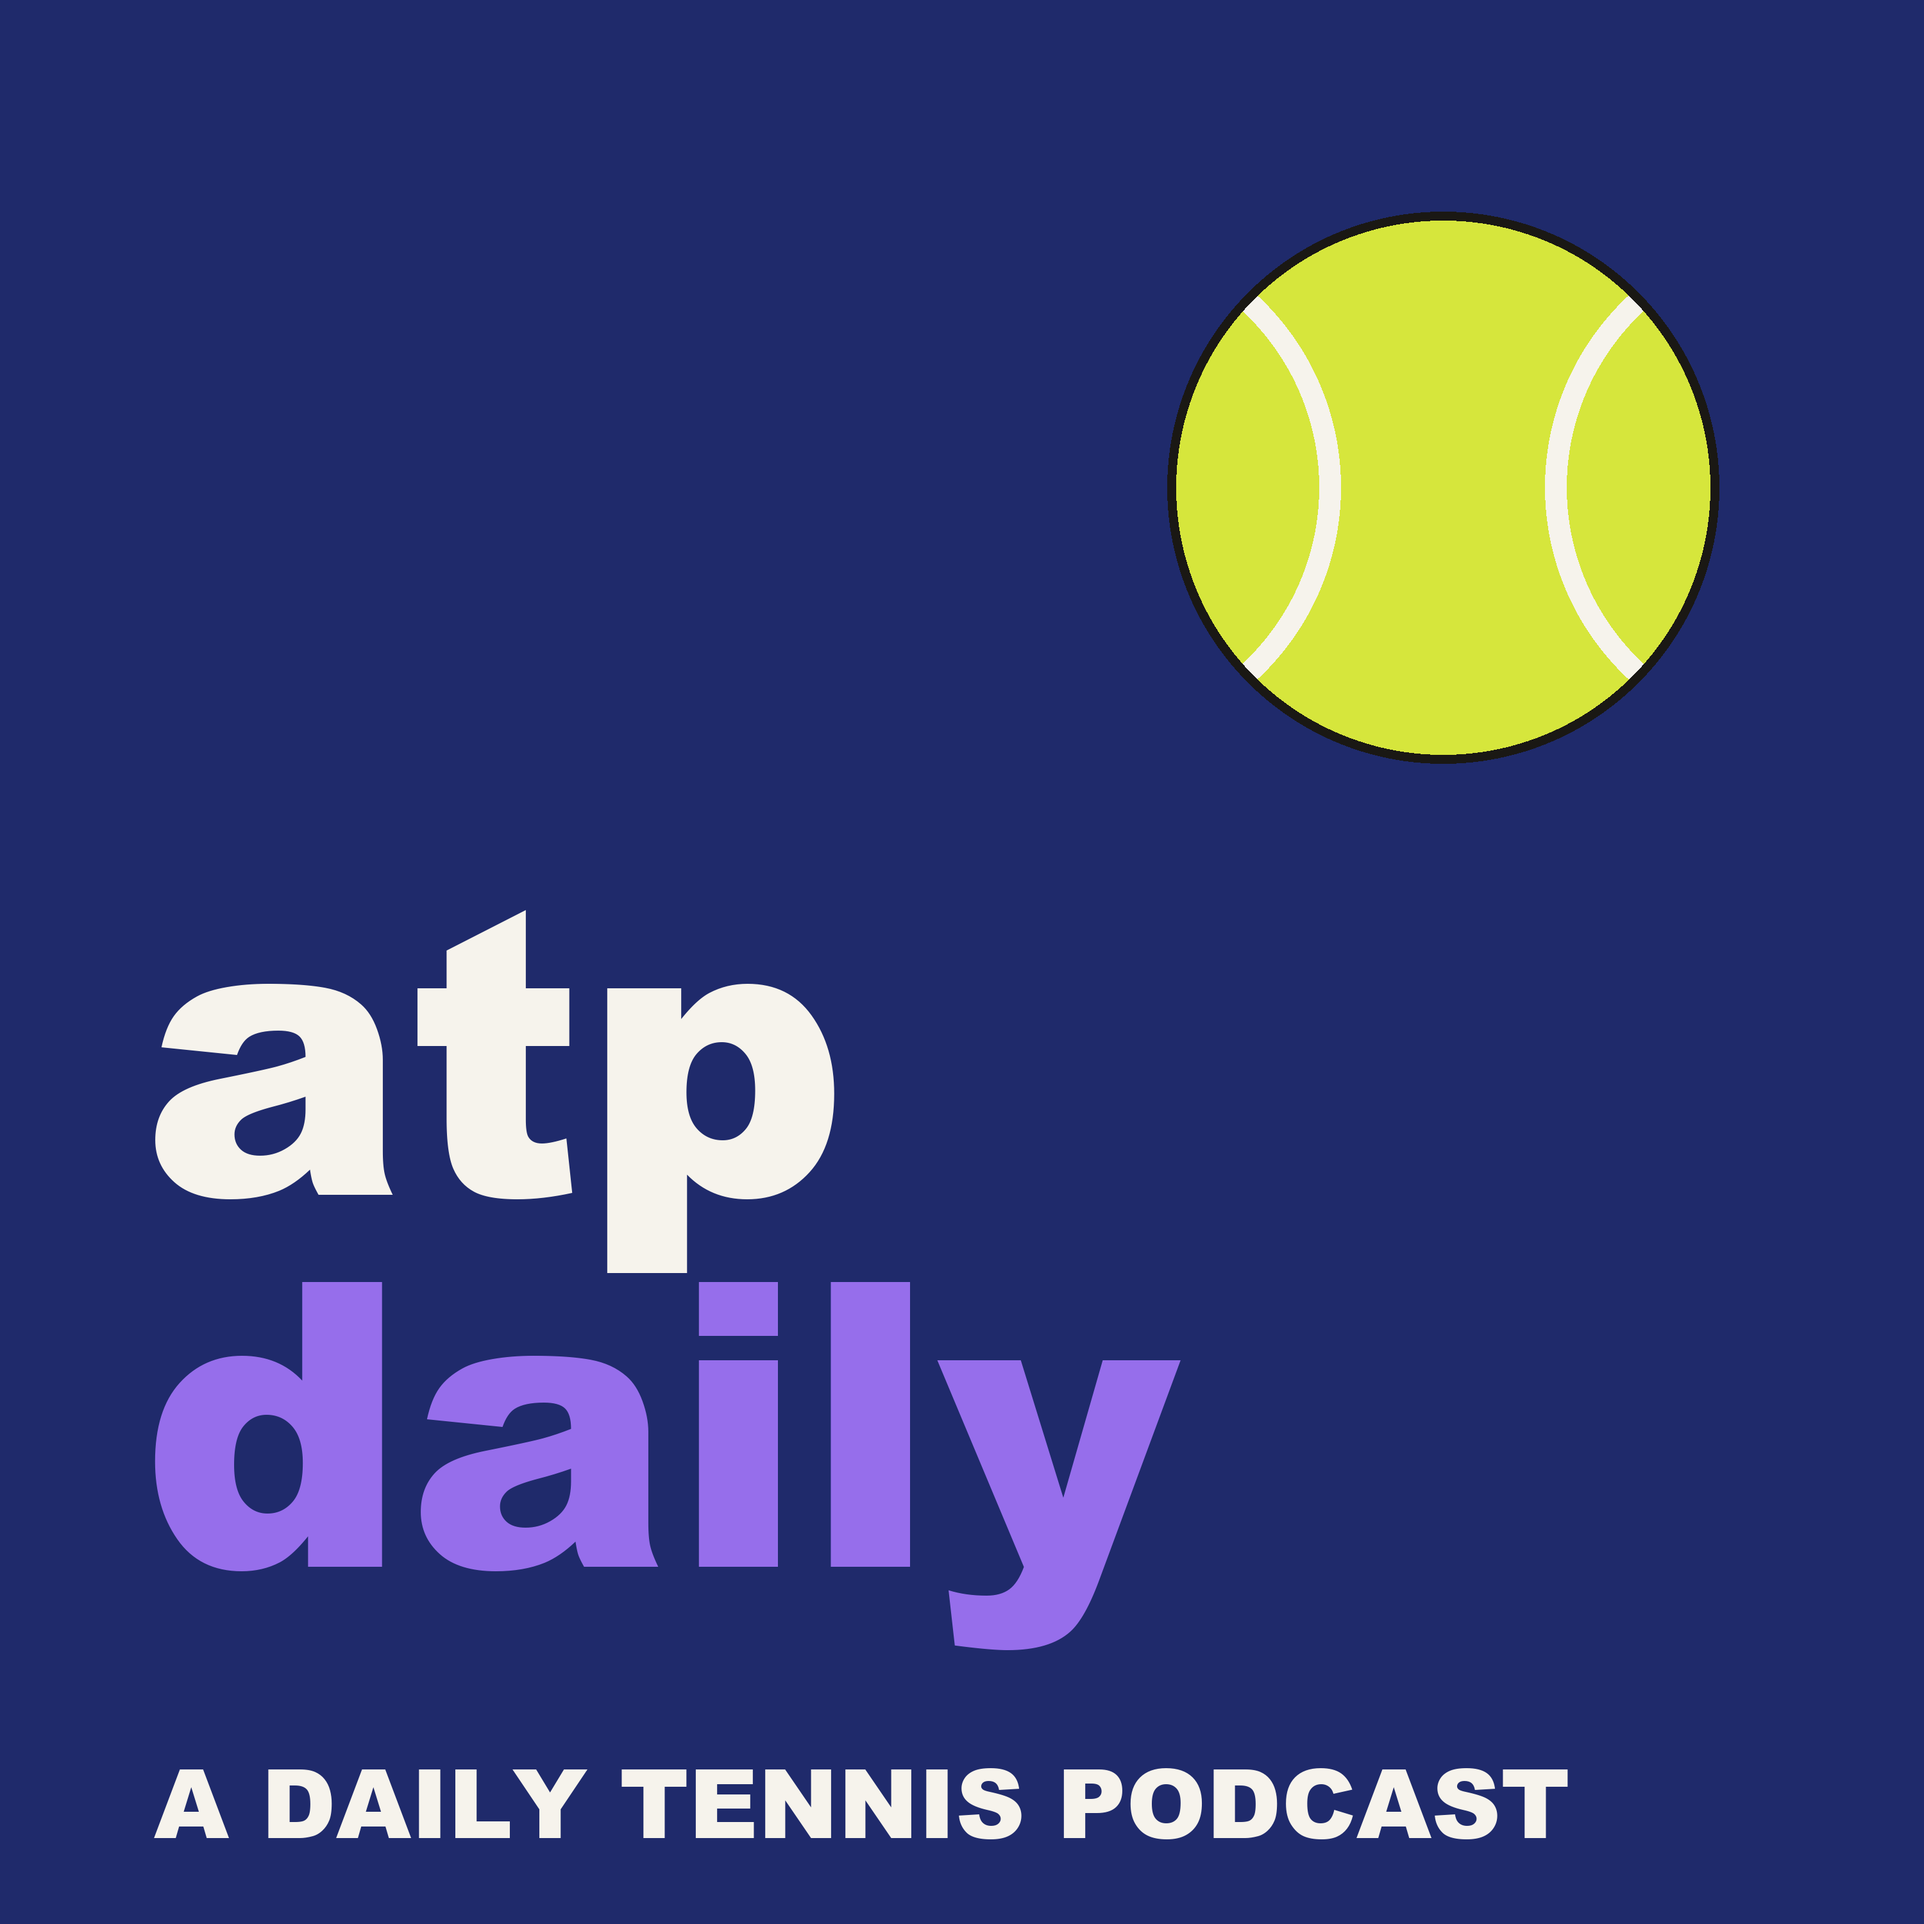
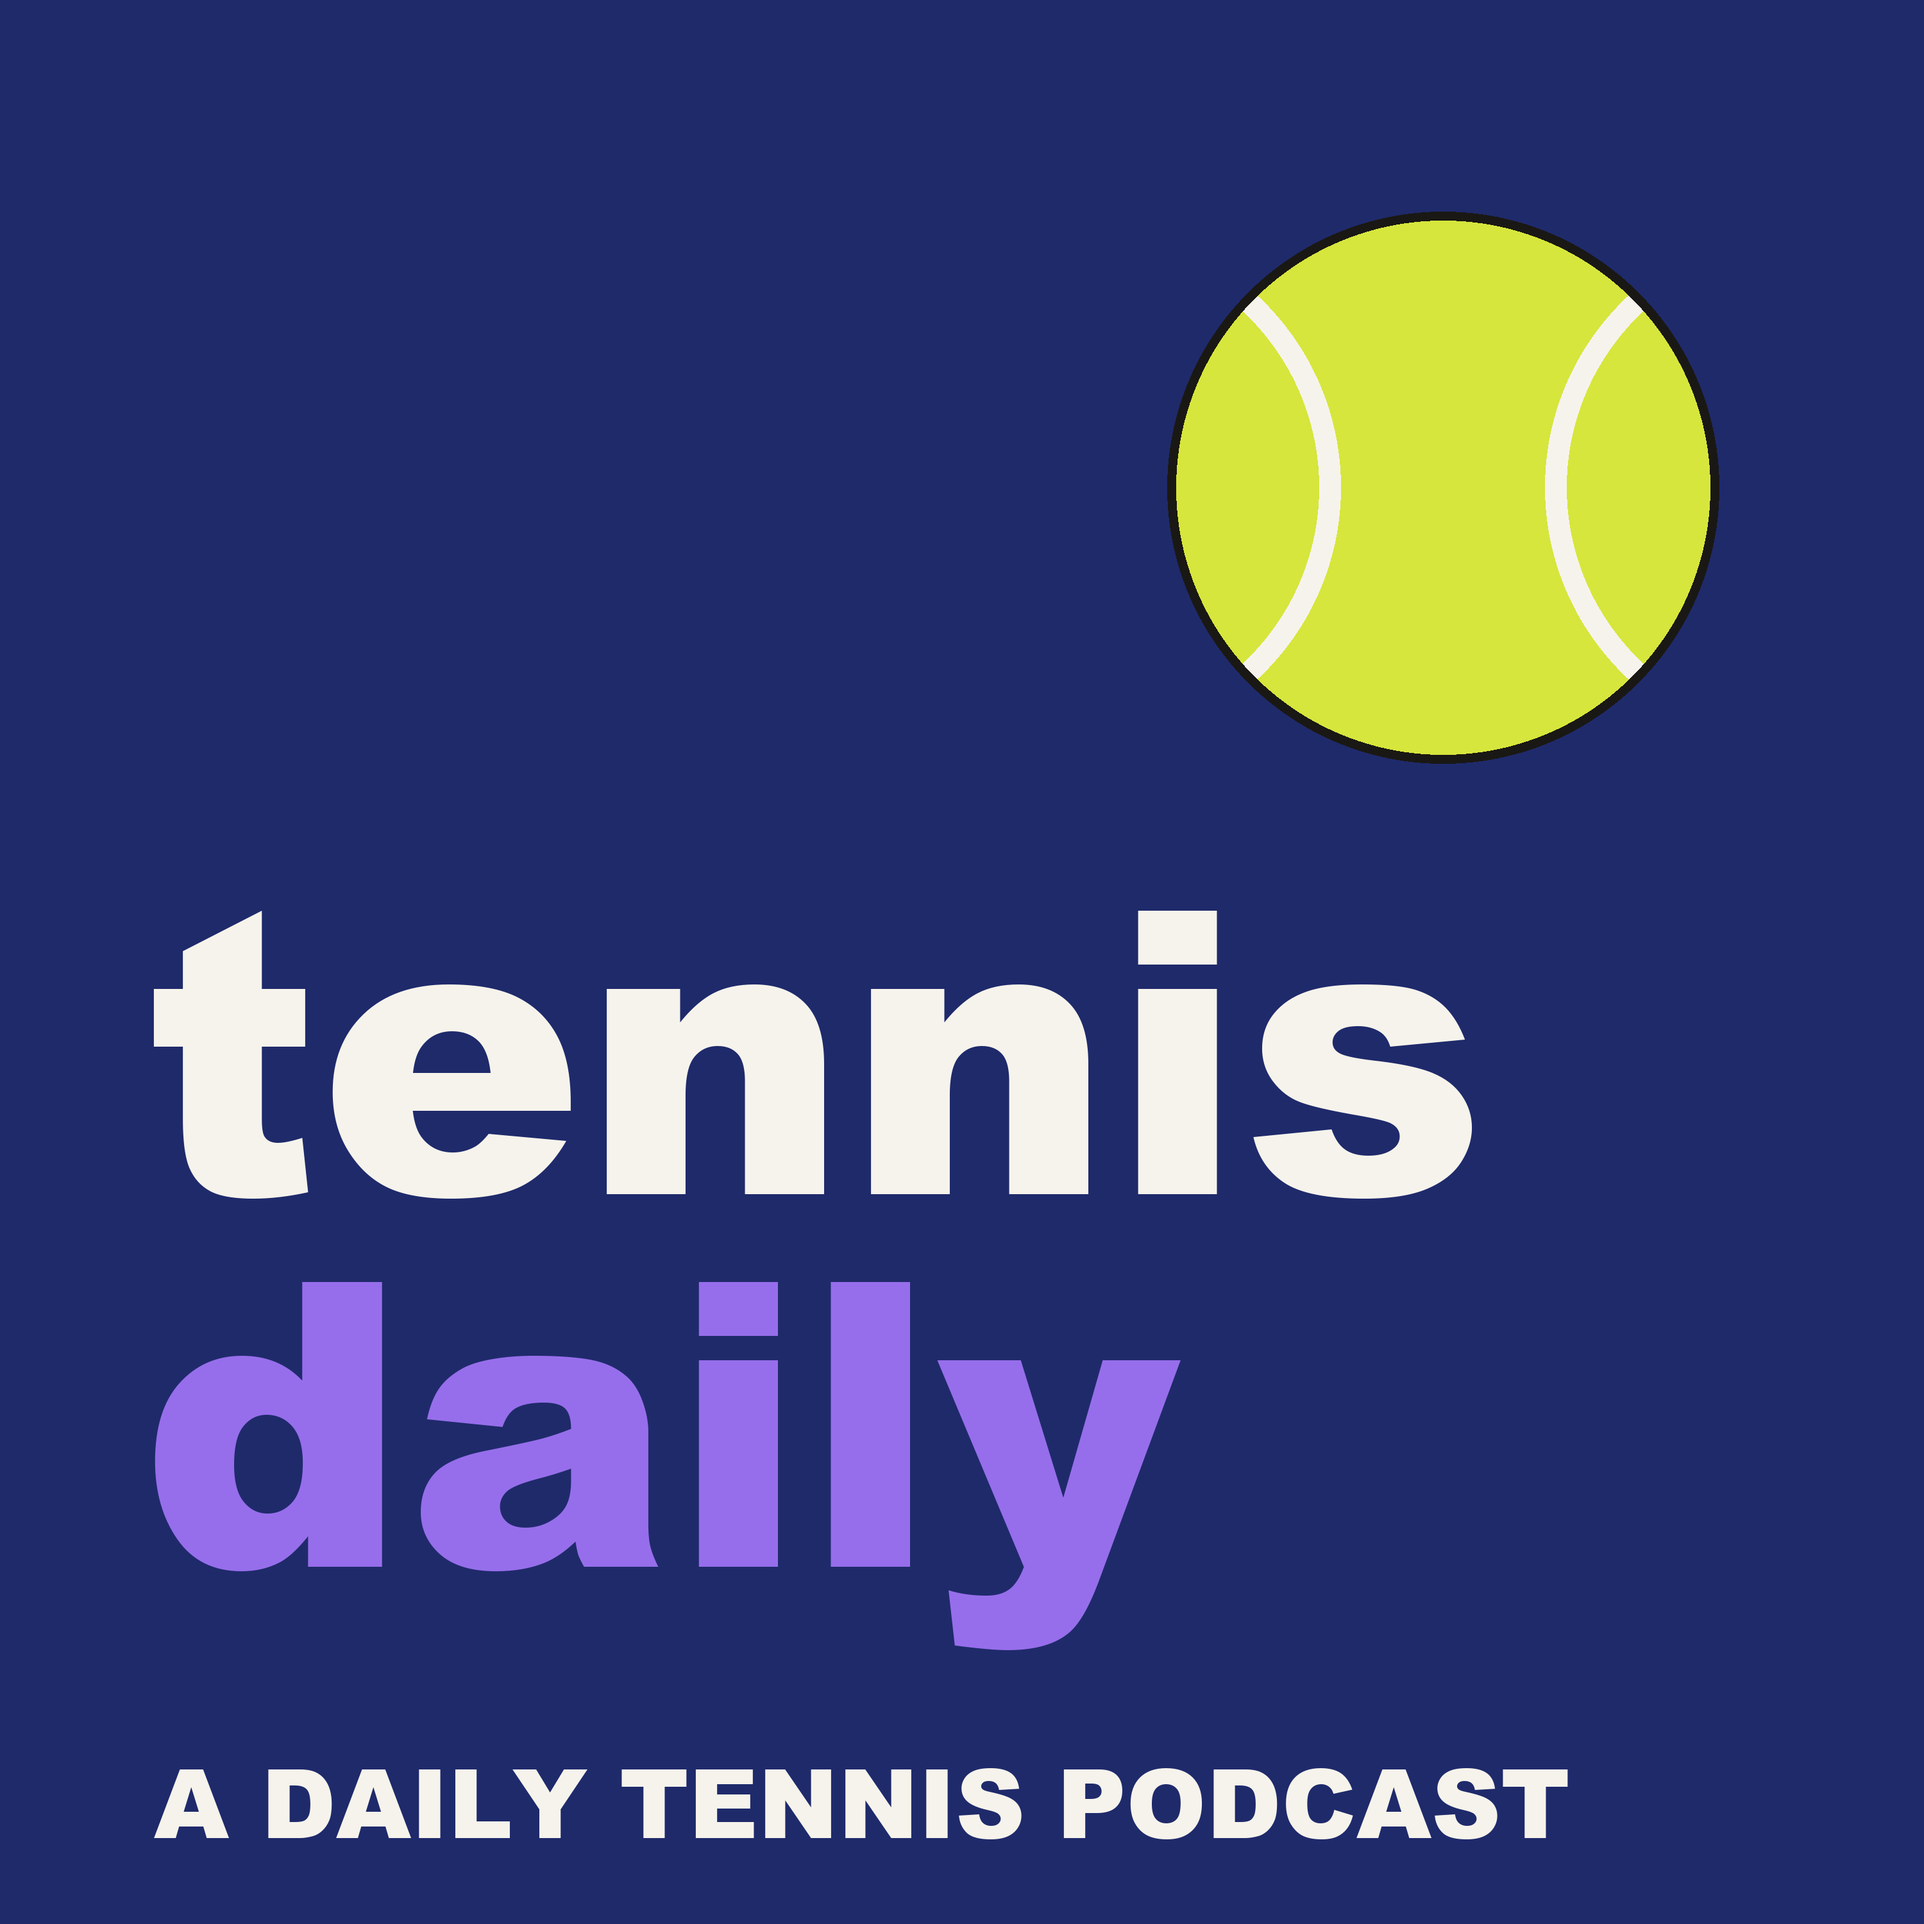
Rename the show from ATP Daily to Tennis Daily
Change the name everywhere listeners see it: site titles, wordmarks,
footer, RSS feed title and author, the podcast cover and the pipeline
prompts. The hero wordmark is longer now, so its font size goes down
and scales with the viewport on tablet and mobile.

RSS GUIDs and localStorage keys keep the atp-daily prefix, so podcast
apps don't re-download every episode and returning listeners keep
their ID.

Changed region(s): [[0.31, 0.465, 0.775, 0.682], [0.062, 0.465, 0.31, 0.62]]

diff --git a/pages/index.tsx b/pages/index.tsx
@@ -126,7 +126,7 @@ export default function Home({ episodes, initialDate, origin }: HomeProps) {
     heroRef.current?.scrollIntoView({ behavior: "smooth", block: "start" });
   }
 
-  const shareTitle = current && !isLatest ? `${current.title} · ATP Daily` : "ATP Daily";
+  const shareTitle = current && !isLatest ? `${current.title} · Tennis Daily` : "Tennis Daily";
   const shareDescription = current?.headline ?? "A daily ATP tennis podcast";
 
   return (
@@ -136,7 +136,7 @@ export default function Home({ episodes, initialDate, origin }: HomeProps) {
         <meta name="description" content={shareDescription} />
         <meta name="viewport" content="width=device-width, initial-scale=1" />
         <link rel="icon" href="/favicon.ico" />
-        <link rel="alternate" type="application/rss+xml" title="ATP Daily" href="/feed.xml" />
+        <link rel="alternate" type="application/rss+xml" title="Tennis Daily" href="/feed.xml" />
         {/* Aperçu des liens partagés (X/Twitter, iMessage, Slack…) */}
         <meta property="og:type" content="website" />
         <meta property="og:title" content={shareTitle} />
@@ -156,13 +156,13 @@ export default function Home({ episodes, initialDate, origin }: HomeProps) {
               <path d="M2.5 9 Q12 14 21.5 9" />
               <path d="M2.5 15 Q12 10 21.5 15" />
             </svg>
-            atp:daily
+            tennis:daily
           </span>
         </nav>
 
         {/* ── Hero — épisode en cours ── */}
         <section className={styles.hero} ref={heroRef}>
-          <div className={styles.heroWordmark} aria-hidden="true">atp:daily</div>
+          <div className={styles.heroWordmark} aria-hidden="true">tennis:daily</div>
           <div className={styles.heroCard}>
             <div className={styles.heroTop}>
               <span className={`${styles.chip} ${isLatest ? styles.chipAccent : ""}`}>
@@ -244,7 +244,7 @@ export default function Home({ episodes, initialDate, origin }: HomeProps) {
 
         {/* ── Footer ── */}
         <div className={styles.foot}>
-          <span>ATP DAILY · a daily tennis podcast</span>
+          <span>TENNIS DAILY · a daily tennis podcast</span>
           <a href="/feed.xml" className={styles.footLink}>RSS feed</a>
         </div>
 
@@ -253,7 +253,7 @@ export default function Home({ episodes, initialDate, origin }: HomeProps) {
       {/* Mini-player fixe — apparaît quand le hero sort du viewport */}
       <MiniPlayer
         visible={!heroVisible && !!current?.audio_url}
-        title={current?.title ?? "ATP Daily"}
+        title={current?.title ?? "Tennis Daily"}
         playing={playerState.playing}
         currentTime={playerState.currentTime}
         duration={playerState.duration}

diff --git a/pages/matches/[id].tsx b/pages/matches/[id].tsx
@@ -55,7 +55,7 @@ export default function MatchDetail({ match, initialRecap }: Props) {
     <>
       <Head>
         <title>
-          {match.winner.name} vs {match.loser.name} — ATP Daily
+          {match.winner.name} vs {match.loser.name} — Tennis Daily
         </title>
         <meta name="viewport" content="width=device-width, initial-scale=1" />
       </Head>
@@ -70,7 +70,7 @@ export default function MatchDetail({ match, initialRecap }: Props) {
               <path d="M2.5 9 Q12 14 21.5 9" />
               <path d="M2.5 15 Q12 10 21.5 15" />
             </svg>
-            atp:daily
+            tennis:daily
           </Link>
           <Link href="/" className={styles.backBtn}>← Back to today</Link>
         </nav>

diff --git a/styles/Home.module.css b/styles/Home.module.css
@@ -42,7 +42,7 @@
 .heroWordmark {
   font-family: 'Archivo', sans-serif;
   font-weight: 900;
-  font-size: 180px;
+  font-size: 150px;
   line-height: 0.85;
   letter-spacing: -0.045em;
   color: var(--accent);
@@ -275,7 +275,7 @@
     padding: 20px 24px 56px;
   }
   .heroWordmark {
-    font-size: 130px;
+    font-size: 14vw;
     top: 30px;
   }
   .heroCard {
@@ -298,7 +298,7 @@
     padding: 30px 0 18px;
   }
   .heroWordmark {
-    font-size: 84px;
+    font-size: 14vw;
     top: 34px;
     letter-spacing: -0.04em;
   }

diff --git a/pages/feed.xml.tsx b/pages/feed.xml.tsx
@@ -4,7 +4,7 @@ import { siteOrigin, episodeLink, trackedAudioUrl } from "@/lib/site";
 // Flux RSS podcast (Apple Podcasts, Spotify, Pocket Casts, Overcast…)
 // Spécification suivie : https://podcasters.apple.com/support/823-podcast-requirements
 
-const SHOW_TITLE = "ATP Daily";
+const SHOW_TITLE = "Tennis Daily";
 const SHOW_DESCRIPTION =
   "A short daily conversation about the ATP tour: yesterday's results, the " +
   "storylines behind them, and how the players played it. Written and voiced " +

diff --git a/components/MiniPlayer.tsx b/components/MiniPlayer.tsx
@@ -58,7 +58,7 @@ export default function MiniPlayer({
 
       <div className={styles.miniBody}>
         {/* Vignette de l'épisode */}
-        <div className={styles.miniThumb} aria-hidden="true">atp</div>
+        <div className={styles.miniThumb} aria-hidden="true">tennis</div>
 
         {/* Titre et temps */}
         <div className={styles.miniInfo}>

diff --git a/pipeline/atp_pipeline/prompts/research.md b/pipeline/atp_pipeline/prompts/research.md
@@ -1,4 +1,4 @@
-You are the research desk for ATP Daily, a short daily podcast in which two hosts recap yesterday's men's professional tennis. Your work feeds an editor who picks the episode's 2–4 storylines, and writers who may only state facts that trace back to what you hand over. Anything you get wrong or invent can end up read aloud, so accuracy matters more than volume.
+You are the research desk for Tennis Daily, a short daily podcast in which two hosts recap yesterday's men's professional tennis. Your work feeds an editor who picks the episode's 2–4 storylines, and writers who may only state facts that trace back to what you hand over. Anything you get wrong or invent can end up read aloud, so accuracy matters more than volume.
 
 You receive the complete list of yesterday's main-tour ATP singles results (Grand Slams, Masters, 250/500 events, Davis Cup, Tour Finals). These come straight from a tennis data API and are the only source of match facts. Your job has four parts.
 

diff --git a/pipeline/atp_pipeline/prompts/eval_script.md b/pipeline/atp_pipeline/prompts/eval_script.md
@@ -1,4 +1,4 @@
-You grade the script of ATP Daily, a daily podcast in which two hosts, ALEX and SAM, recap yesterday's men's professional tennis. The question is not whether the script is accurate, but whether the hosts **think out loud**: do they explain why things happened and what they mean, and do they take positions, or do they only read out results, stats and other people's words?
+You grade the script of Tennis Daily, a daily podcast in which two hosts, ALEX and SAM, recap yesterday's men's professional tennis. The question is not whether the script is accurate, but whether the hosts **think out loud**: do they explain why things happened and what they mean, and do they take positions, or do they only read out results, stats and other people's words?
 
 You get the episode outline (its segments), the Fact Sheet the writers worked from, and the script as numbered lines, each tagged with its segment (or none, for the cold open, quick hits and sign-off).
 

diff --git a/pipeline/atp_pipeline/prompts/editor.md b/pipeline/atp_pipeline/prompts/editor.md
@@ -1,4 +1,4 @@
-You are the editor of ATP Daily, a daily podcast in which two hosts, ALEX and SAM, recap yesterday's men's professional tennis in about 6–9 minutes. You receive the day's Fact Sheet: every main-tour singles result (checked against hard rules), stats for some matches, commentary articles found on the web, and outliers (rare values our checks flagged, each `verified` against a source or `unverified`).
+You are the editor of Tennis Daily, a daily podcast in which two hosts, ALEX and SAM, recap yesterday's men's professional tennis in about 6–9 minutes. You receive the day's Fact Sheet: every main-tour singles result (checked against hard rules), stats for some matches, commentary articles found on the web, and outliers (rare values our checks flagged, each `verified` against a source or `unverified`).
 
 You decide what the episode is about. You don't write any of it; writers turn your outline into the script.
 

diff --git a/pipeline/atp_pipeline/prompts/eval_discover.md b/pipeline/atp_pipeline/prompts/eval_discover.md
@@ -1,4 +1,4 @@
-You grade the research desk of ATP Daily, a daily men's tennis podcast. The research desk picked yesterday's matches worth covering and gathered articles about them; each article is reduced to `key_points` and at most one `notable_quote`. That material is all the hosts will have to talk about the players beyond the scoreline.
+You grade the research desk of Tennis Daily, a daily men's tennis podcast. The research desk picked yesterday's matches worth covering and gathered articles about them; each article is reduced to `key_points` and at most one `notable_quote`. That material is all the hosts will have to talk about the players beyond the scoreline.
 
 You get the players of the selected matches and the research material. For each player, answer three yes/no questions, using **only** the material given. What you know yourself does not count.
 

diff --git a/pipeline/atp_pipeline/prompts/reviewer.md b/pipeline/atp_pipeline/prompts/reviewer.md
@@ -1,4 +1,4 @@
-You are the fact-checker of ATP Daily, a daily men's tennis podcast. Writers have drafted an episode: a spoken script (numbered lines, hosts ALEX and SAM) and episode metadata. You check the draft against the Fact Sheet, which is the only source of truth. You didn't write the draft and you owe the writers nothing: your job is to stop anything wrong from being published.
+You are the fact-checker of Tennis Daily, a daily men's tennis podcast. Writers have drafted an episode: a spoken script (numbered lines, hosts ALEX and SAM) and episode metadata. You check the draft against the Fact Sheet, which is the only source of truth. You didn't write the draft and you owe the writers nothing: your job is to stop anything wrong from being published.
 
 Go through the draft sentence by sentence and check:
 

diff --git a/pipeline/atp_pipeline/prompts/verify.md b/pipeline/atp_pipeline/prompts/verify.md
@@ -1,4 +1,4 @@
-You are the fact-check desk for ATP Daily, a daily men's tennis podcast. Our data checks flagged some match facts as outliers: values that are possible but rare, such as 40 aces in a match or an upset at long odds. Rare is not wrong; often it is the best story of the day. Your job is to confirm each one from a reliable source, so the hosts can talk about it with confidence.
+You are the fact-check desk for Tennis Daily, a daily men's tennis podcast. Our data checks flagged some match facts as outliers: values that are possible but rare, such as 40 aces in a match or an upset at long odds. Rare is not wrong; often it is the best story of the day. Your job is to confirm each one from a reliable source, so the hosts can talk about it with confidence.
 
 For each outlier:
 

diff --git a/pipeline/atp_pipeline/prompts/script.md b/pipeline/atp_pipeline/prompts/script.md
@@ -1,4 +1,4 @@
-You write the script of ATP Daily, a daily podcast in which two hosts recap yesterday's men's professional tennis. It is read aloud by text-to-speech, so you are writing for the ear.
+You write the script of Tennis Daily, a daily podcast in which two hosts recap yesterday's men's professional tennis. It is read aloud by text-to-speech, so you are writing for the ear.
 
 The hosts are two friends who watch a lot of tennis, talking to each other. The listener should feel they're overhearing a conversation, not two people taking turns reading a report.
 
